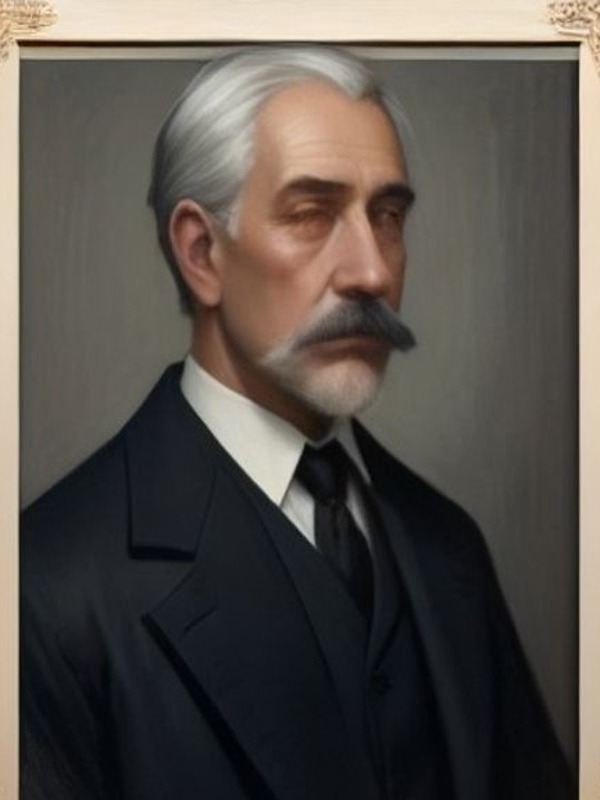
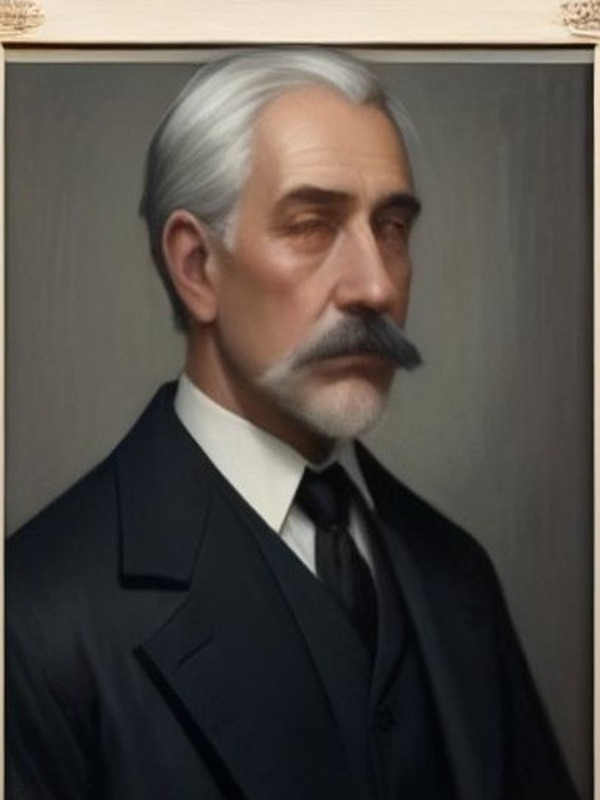
Portraits: strip the generator watermark; seat Ganimard, Blakeney and the Comtesse
All eight portrait files carried the free image endpoint's corner mark.
It sat in the bottom 5% only, so a uniform 5% tighter crop (3:4 kept,
resized back to 600x800) removes it with no visible change to the
framing; the committed assets are now clean rather than merely hidden
by the oval mask in the Suspects panel.

The two portraits generated but unused, plus Blakeney's, find natural
slots via one .portrait rule floated into running text:
- Ganimard on the landing card, whose text already introduces him as
  the inspector who hired the clerk.
- Blakeney at the Part I ending, the Gare du Nord unmasking: his face
  is shown only once chapter VIII has named him, so it gives nothing
  away before that.
- The Comtesse at the Part II ending, "case closed, twice", where the
  night filter keeps the warm paint tones as designed.

Learn mode only for the endings; compete's finish screen is a
different branch and is untouched. Hints stay off (course owner's
call, not reversed here).

Verified in a real Chrome instance: landing shows Ganimard; a seeded
chapters-1-8 state shows Blakeney on the Part I ending in day mode; a
seeded 1-12 state shows the Comtesse on the Part II ending in night
mode with the masthead at 19 May. Node tests and ASCII check clean.

Claude-Session: https://claude.ai/code/session_018Dk69nM21DJsKHVVLvmAkW

diff --git a/site/app.js b/site/app.js
@@ -130,11 +130,11 @@ function renderChapter() {
   $("story").textContent = ch.story;
   $("objective").textContent = ch.objective + " Answer: " + ch.answer_form + ".";
   if (awaitingCode(state)) {
-    $("story").textContent = data.endings.part1;
+    $("story").innerHTML = '<img class="portrait" src="portraits/blakeney.jpg" alt="">' + esc(data.endings.part1);   // the unmasking: his face, only now
     $("objective").textContent = "Part I is closed. Lupin mentioned a Chapter IX. Somewhere in the archives a telegram is addressed to a curious clerk; its code, typed in the answer box, opens Part II.";
     $("btn-print").hidden = false;
   }
-  if (state.solved.includes(12)) { $("story").textContent = data.endings.part2; $("objective").textContent = "Case closed. Twice."; }
+  if (state.solved.includes(12)) { $("story").innerHTML = '<img class="portrait" src="portraits/comtesse.jpg" alt="">' + esc(data.endings.part2); $("objective").textContent = "Case closed. Twice."; }
   if (competeDone(state)) {
     $("story").textContent = "Case closed. Lupin is in irons, Ganimard is taking the credit, and the clock has stopped. " +
       "Your side of the clock read " + fmtTime(state.finishedAt - state.startedAt) + "; the leaderboard keeps the official time, " +

diff --git a/site/style.css b/site/style.css
@@ -102,7 +102,10 @@ input, textarea { font: inherit; background: var(--card); color: var(--ink); bor
   opacity: .10; mix-blend-mode: multiply; pointer-events: none; }
 .suspect b { display: block; font: 700 15px "Playfair Display", serif; margin-top: 8px; }
 .suspect p { font-size: 13px; margin: 2px 0 0; }
-:root[data-mood="night"] .suspect img { filter: brightness(.85) saturate(.9) contrast(1.15) drop-shadow(0 0 20px rgba(63,111,181,.35)); }
+/* a single portrait set into running text: the landing (Ganimard), the two endings (Blakeney, the Comtesse) */
+.portrait { float: left; width: 96px; aspect-ratio: 3/4; object-fit: cover; border-radius: 50% / 40%; margin: 4px 14px 6px 0;
+  box-shadow: 0 1px 0 rgba(0,0,0,.3), 0 6px 14px rgba(0,0,0,.25); }
+:root[data-mood="night"] .suspect img, :root[data-mood="night"] .portrait { filter: brightness(.85) saturate(.9) contrast(1.15) drop-shadow(0 0 20px rgba(63,111,181,.35)); }
 @keyframes drop { from { transform: translateY(-40px) rotate(-6deg); opacity: 0 } to { opacity: 1 } }
 .telegram { font: 13px/1.4 "Special Elite", monospace; white-space: pre-wrap; background: #fff8e8; border: 1px solid var(--rule); padding: 8px; min-height: 3em; cursor: pointer; }
 .telegram:empty { display: none; }

diff --git a/site/index.html b/site/index.html
@@ -15,7 +15,7 @@
     <div class="mast-title">LE PETIT JOURNAL</div>
     <div class="mast-sub">PARIS &mdash; 18 MAY 1912 &mdash; FIVE CENTIMES</div>
     <h1>THE BLUE STAR VANISHES FROM THE RITZ</h1>
-    <p>A calling card signed <i>Arsene Lupin</i> was found on the pillow of the Comtesse de Cagliostro. Inspector Ganimard, summoned in the night, has promised an arrest before the week is out. He has also, we are told, hired a clerk.</p>
+    <p><img class="portrait" src="portraits/ganimard.jpg" alt="Inspector Ganimard">A calling card signed <i>Arsene Lupin</i> was found on the pillow of the Comtesse de Cagliostro. Inspector Ganimard, summoned in the night, has promised an arrest before the week is out. He has also, we are told, hired a clerk.</p>
     <p>You are the clerk. Your only weapon is SQL.</p>
     <div class="landing-buttons">
       <button id="btn-investigate" disabled>Investigate</button>

diff --git a/docs/superpowers/specs/2026-09-20-sql-mystery-game-design.md b/docs/superpowers/specs/2026-09-20-sql-mystery-game-design.md
@@ -310,8 +310,12 @@ framework, no bundler.
     renders as an oval-vignetted, lightly halftoned portrait grid, closable, with the night filter
     above applied under `[data-mood="night"]`. Blakeney ships from chapter I like every other
     suspect, per the "no face reads guiltier" principle the mockup's own asset section states.
-    Ganimard and the Comtesse are generated and committed but have no UI yet (Ganimard is not a
-    suspect; the Comtesse's a possible fit for the Part II ending screen, not built).
+    The other two found their slots the same day: Ganimard on the landing card (the text there
+    already introduces him as the inspector who hired the clerk), Blakeney at the Part I ending (the
+    Gare du Nord unmasking -- his face shown only once chapter VIII has named him) and the Comtesse at
+    the Part II ending ("case closed, twice"), all via one `.portrait` rule floated into the running
+    text. The generator's corner watermark was cropped off all eight files (a uniform 5% tighter
+    frame, 3:4 kept), so the committed assets are clean, not just hidden by the oval mask.
 
 - ~~Compete mode's in-game button.~~ Done 2026-09-22, see phase 3 and
   `docs/superpowers/plans/2026-09-22-plan-4-compete-button.md`. The season comes from the teacher's
